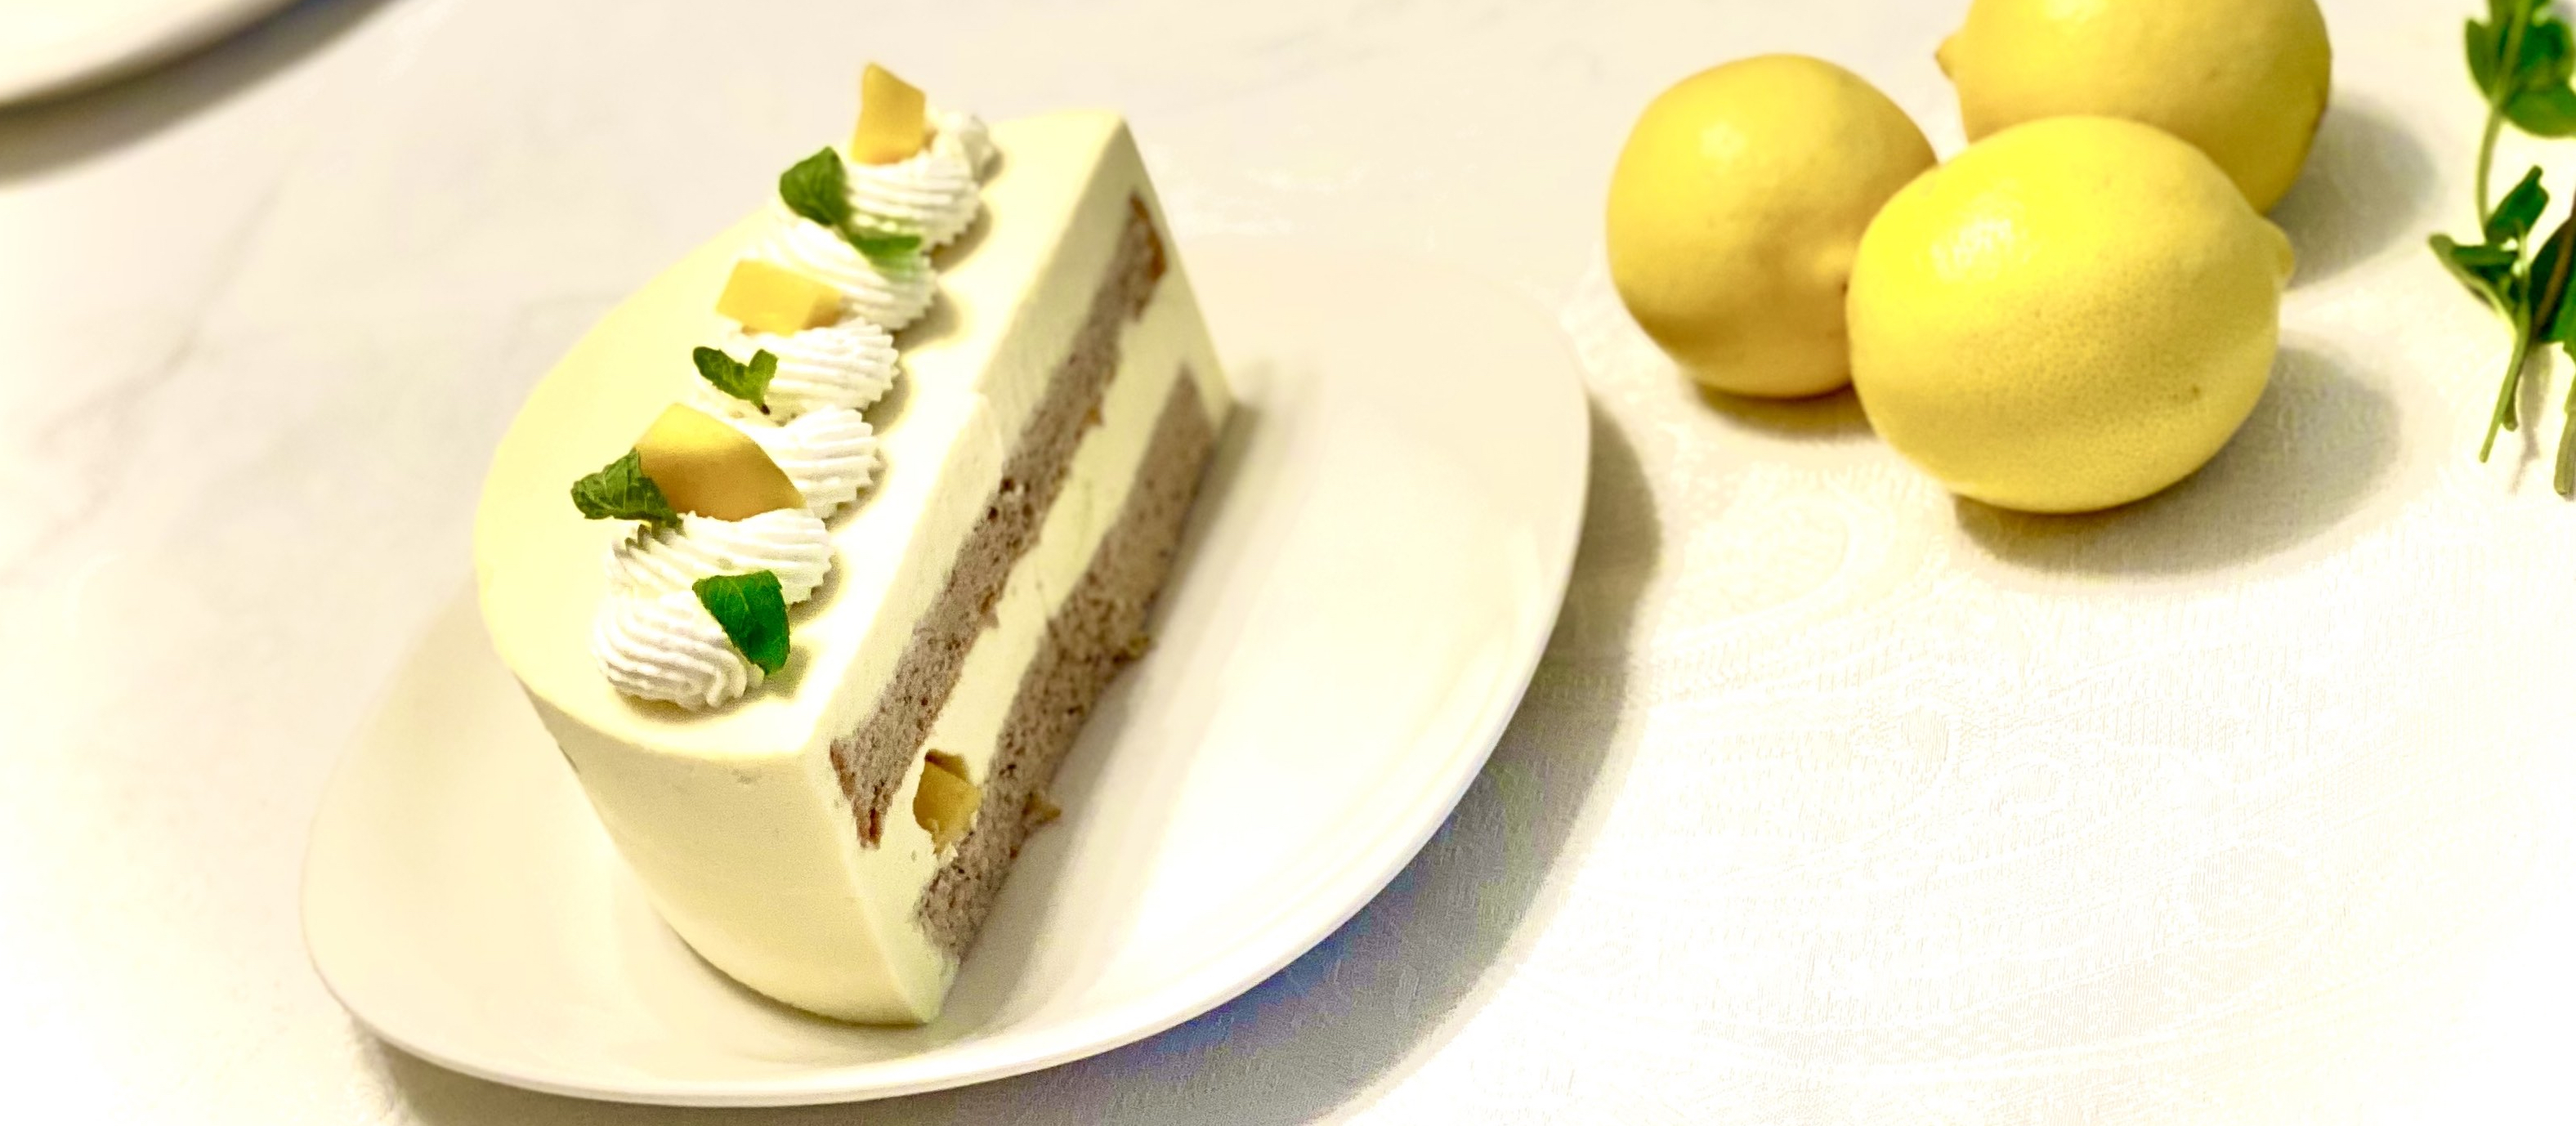
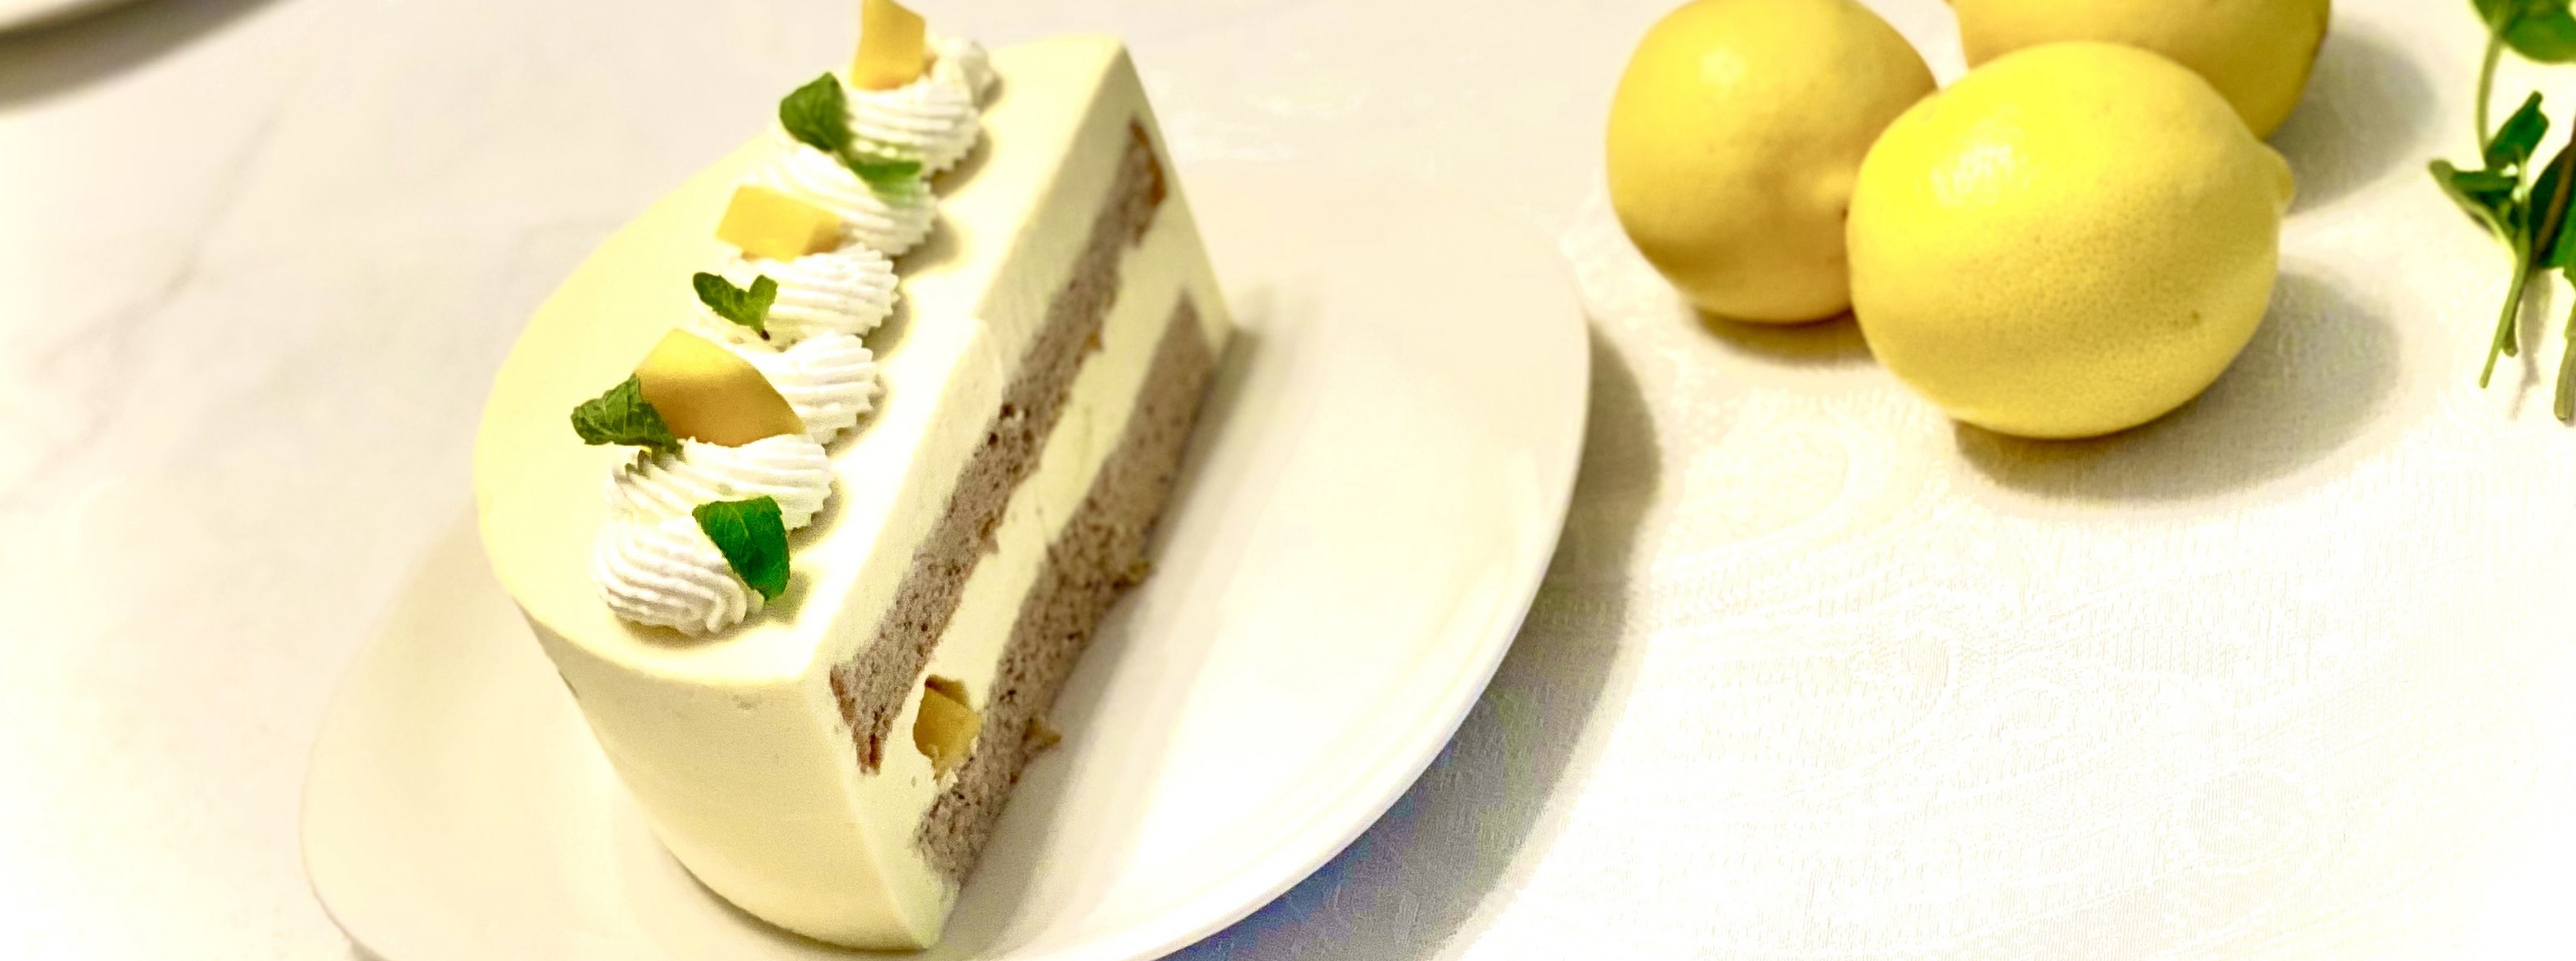
cover image styling

diff --git a/src/Header/Header.css b/src/Header/Header.css
@@ -2,9 +2,9 @@
 
 .header {
   display: flex;
-  align-items: center;
+  align-items: baseline;
   justify-content: space-evenly;
-  padding: 20px;
+  padding: 10px;
   position: sticky;
   top: 0;
   z-index: 100;
@@ -16,6 +16,7 @@
 .header__logo {
   /* height: 25px;   
   object-fit: contain; */
+  font-size: 40px;
   font-family: 'Playball', cursive;
 } 
 

diff --git a/src/Cover/Cover.css b/src/Cover/Cover.css
@@ -1,6 +1,9 @@
 .cover > img {
+    height: 500px;
     width: 100%;
+    object-fit: cover;
     display: flex;
+    align-items: center;
 }
 
 /* .cover > p {
